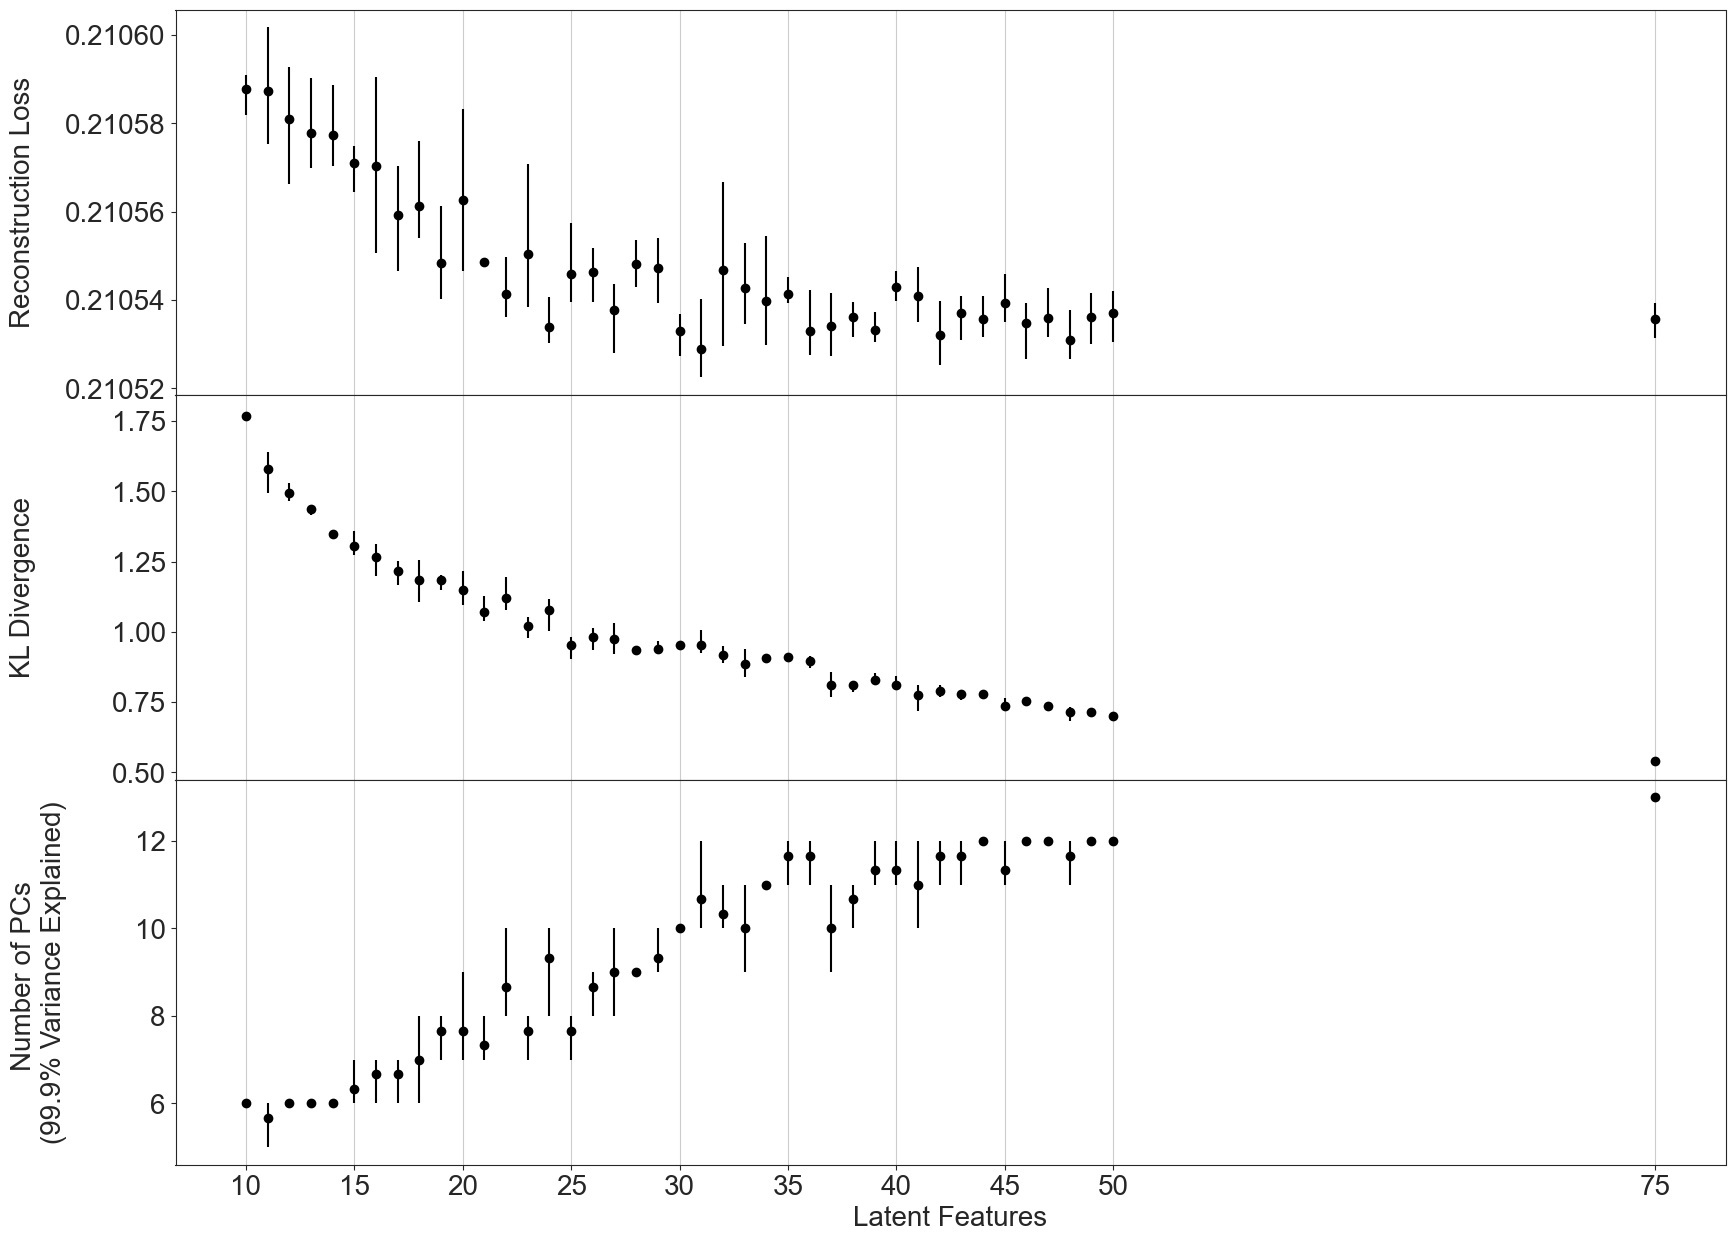
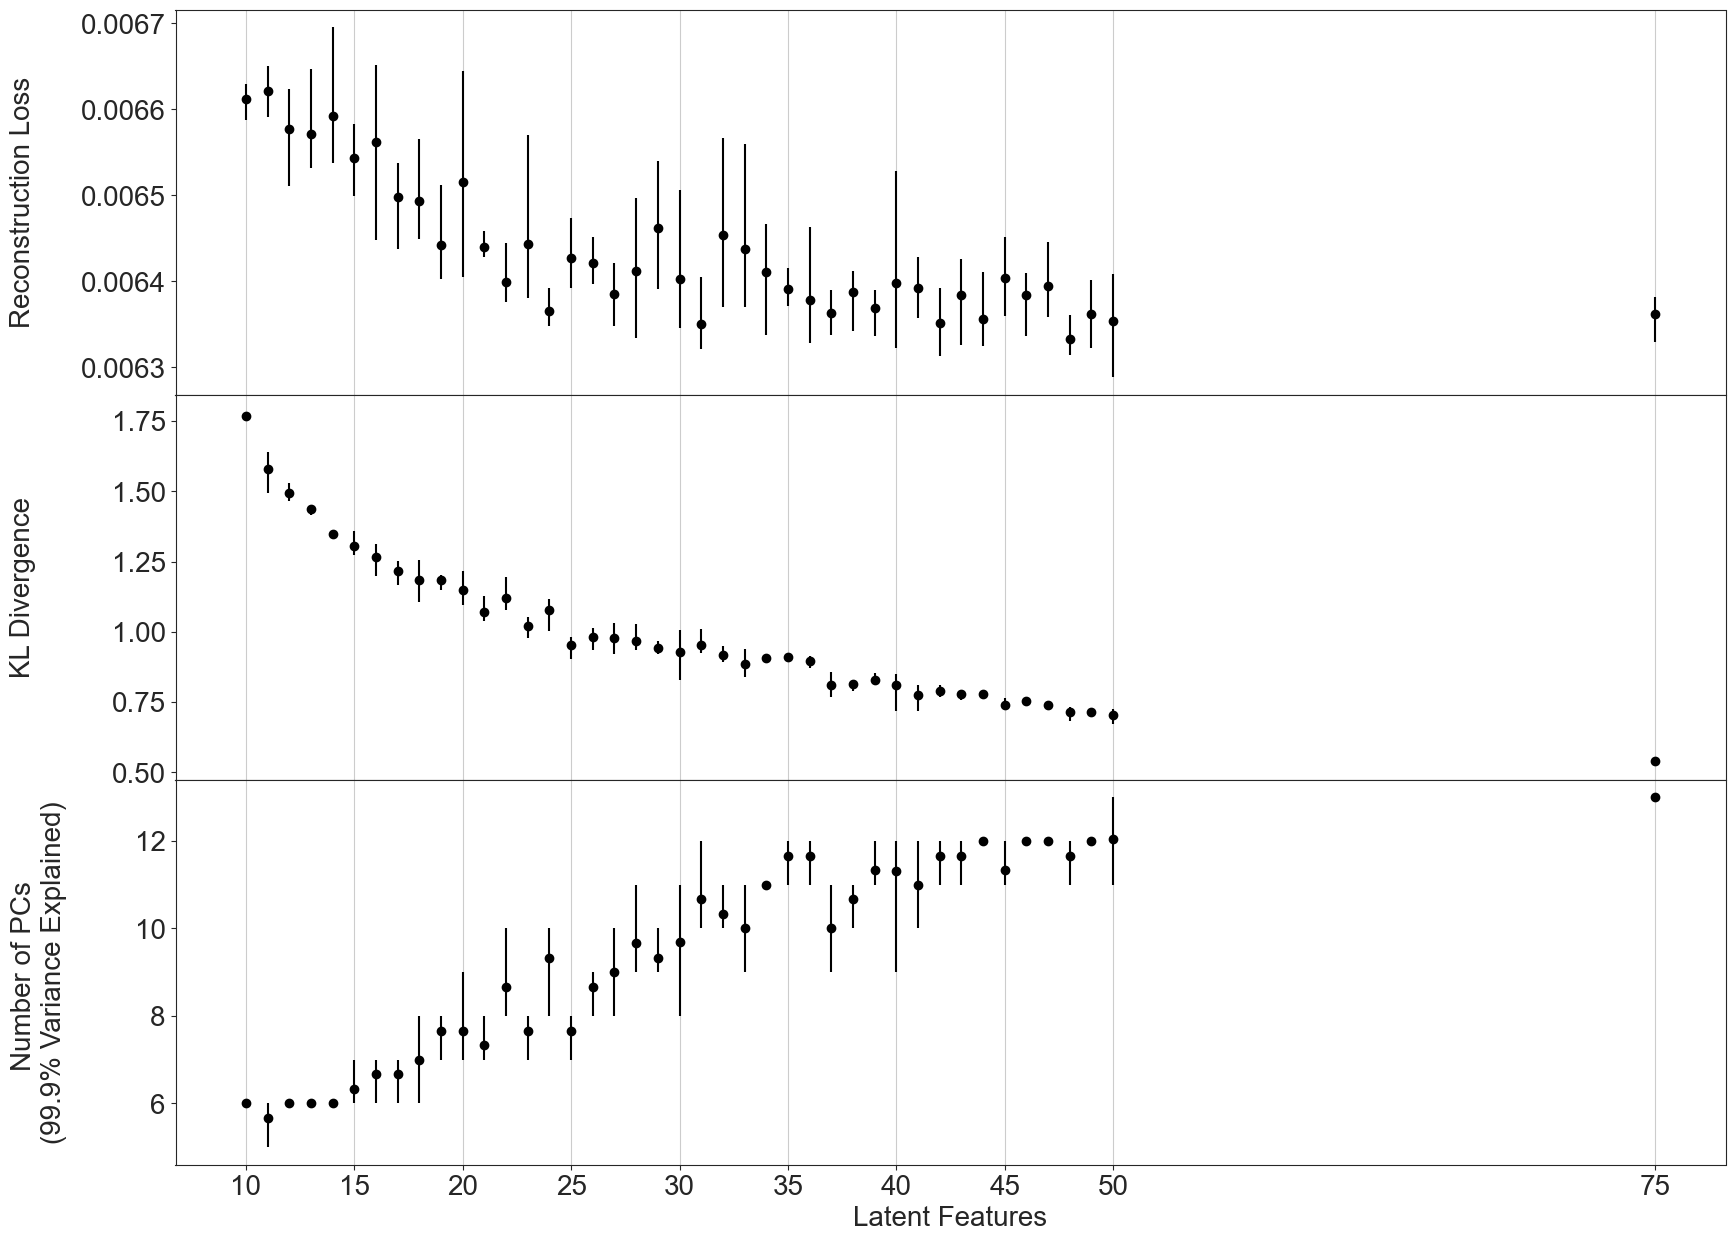
Code

diff --git a/optimal_features.py b/optimal_features.py
@@ -44,7 +44,7 @@ for encoding_dim in list(range(10, 51)) + [75]:
     latent_kl_losses = []
     latent_num_components = []
 
-    for run in range(1, 4):
+    for run in range(1, 26):
 
         try:
 
@@ -64,8 +64,8 @@ for encoding_dim in list(range(10, 51)) + [75]:
             latent_residuals.append(residual)
 
         except Exception as e:
-            # pass
-            print(e)
+            pass
+
             # print(encoding_dim, run)
 
             # if encoding_dim == 40:
@@ -74,20 +74,18 @@ for encoding_dim in list(range(10, 51)) + [75]:
             # if encoding_dim == 50:
             #     print(encoding_dim, run)
 
-    if encoding_dim == 16:
-        print(latent_reconstruction_losses)
 
     # find min, max and median for losses and number of components, and append onto other latent features as a sublist
-
-    print(len(latent_reconstruction_losses))
-    print(len(latent_residuals))
-    print(len(latent_kl_losses))
-    print(len(latent_num_components))
 
     min_reconstruction = min(latent_reconstruction_losses)
     med_reconstruction = np.mean(latent_reconstruction_losses)
     max_reconstruction = max(latent_reconstruction_losses)
     reconstruction_losses.append([min_reconstruction, med_reconstruction, max_reconstruction])
+
+    min_residual = min(latent_residuals)
+    med_residual = np.mean(latent_residuals)
+    max_residual = max(latent_residuals)
+    residuals.append([min_residual, med_residual, max_residual])
 
     min_kl = min(latent_kl_losses)
     med_kl = np.mean(latent_kl_losses)
@@ -101,6 +99,7 @@ for encoding_dim in list(range(10, 51)) + [75]:
 
 # convert lists to numpy arrays
 reconstruction_losses = np.array(reconstruction_losses)
+residuals = np.array(residuals)
 kl_losses = np.array(kl_losses)
 num_components = np.array(num_components)
 
@@ -116,10 +115,16 @@ fig, axs = plt.subplots(3, 1, figsize=(20, 15))
 # x_range = list(range(10, 51))
 x_range = list(range(10, 51)) + [75]
 
+# # calculate error bars and plot reconstruction loss
+# recon_err_lower = reconstruction_losses.T[1] - reconstruction_losses.T[0]
+# recon_err_upper = reconstruction_losses.T[2] - reconstruction_losses.T[1]
+# axs[0].errorbar(x=x_range, y=reconstruction_losses.T[1], yerr=[recon_err_lower, recon_err_upper], fmt="o", color="black",)
+# axs[0].get_yaxis().get_major_formatter().set_useOffset(False)
+
 # calculate error bars and plot reconstruction loss
-recon_err_lower = reconstruction_losses.T[1] - reconstruction_losses.T[0]
-recon_err_upper = reconstruction_losses.T[2] - reconstruction_losses.T[1]
-axs[0].errorbar(x=x_range, y=reconstruction_losses.T[1], yerr=[recon_err_lower, recon_err_upper], fmt="o", color="black",)
+residual_err_lower = residuals.T[1] - residuals.T[0]
+residual_err_upper = residuals.T[2] - residuals.T[1]
+axs[0].errorbar(x=x_range, y=residuals.T[1], yerr=[residual_err_lower, residual_err_upper], fmt="o", color="black",)
 axs[0].get_yaxis().get_major_formatter().set_useOffset(False)
 
 

diff --git a/planar_flow_vae_eagle.py b/planar_flow_vae_eagle.py
@@ -24,8 +24,8 @@ tfd = tfp.distributions
 
 
 
-run = 3
-encoding_dim = 16
+run = 1
+encoding_dim = 31
 n_flows = 0
 beta = 0.0001
 beta_name = "0001"
@@ -35,7 +35,7 @@ batch_size = 32
 
 # select which gpu to use
 os.environ["CUDA_DEVICE_ORDER"]="PCI_BUS_ID"
-os.environ["CUDA_VISIBLE_DEVICES"]="3"
+os.environ["CUDA_VISIBLE_DEVICES"]="0"
 
 
 
@@ -290,9 +290,9 @@ print()
 # for encoding_dim in [35, 36, 37, 38, 39, 40, 44, 45, 46, 47, 48, 49, 50]:
 # for run, encoding_dim in [[3, 29], [3, 31], [3, 32], [2, 35], [3, 35], [2, 36], [2, 37], [2, 38], [3, 38], [2, 39], [2, 40], [3, 43], [2, 44], [2, 45], [2, 46], [2, 47], [2, 48], [2, 49], [2, 50]]:
 # for run, encoding_dim in [[4, 40], [5, 40], [6, 40], [7, 40], [8, 40], [9, 40], [10, 40], [4, 50], [5, 50], [6, 50], [7, 50], [8, 50], [9, 50], [10, 50]]:
-# for run in [1, 2, 3]:
+for run in [1, 2]:
 # for run in range(17, 26):
-for encoding_dim in range(26, 51):
+# for encoding_dim in range(26, 51):
 # for encoding_dim in [20, 21, 22, 23, 24, 25]:
 
 
@@ -530,12 +530,12 @@ for encoding_dim in range(26, 51):
 
 
     # train the model
-    # model_loss = vae.fit(train_images, epochs=epochs, batch_size=batch_size)
+    model_loss = vae.fit(train_images, epochs=epochs, batch_size=batch_size)
 
     vae.build(input_shape=(None, 256, 256, 3))
 
     # or load the weights from a previous run
-    vae.load_weights("Variational Eagle/Weights/Normalising Flow Balanced/planar_new_latent_" + str(encoding_dim) + "_beta_" + beta_name + "_epoch_" + str(epochs) + "_flows_" + str(n_flows) + "_" + str(run) + "_default.weights.h5")
+    # vae.load_weights("Variational Eagle/Weights/Normalising Flow Balanced/planar_new_latent_" + str(encoding_dim) + "_beta_" + beta_name + "_epoch_" + str(epochs) + "_flows_" + str(n_flows) + "_" + str(run) + "_default.weights.h5")
 
     # save the weights
     vae.save_weights(filepath="Variational Eagle/Weights/Normalising Flow Balanced/planar_new_latent_" + str(encoding_dim) + "_beta_" + beta_name + "_epoch_" + str(epochs) + "_flows_" + str(n_flows) + "_" + str(run) + "_default.weights.h5", overwrite=True)
